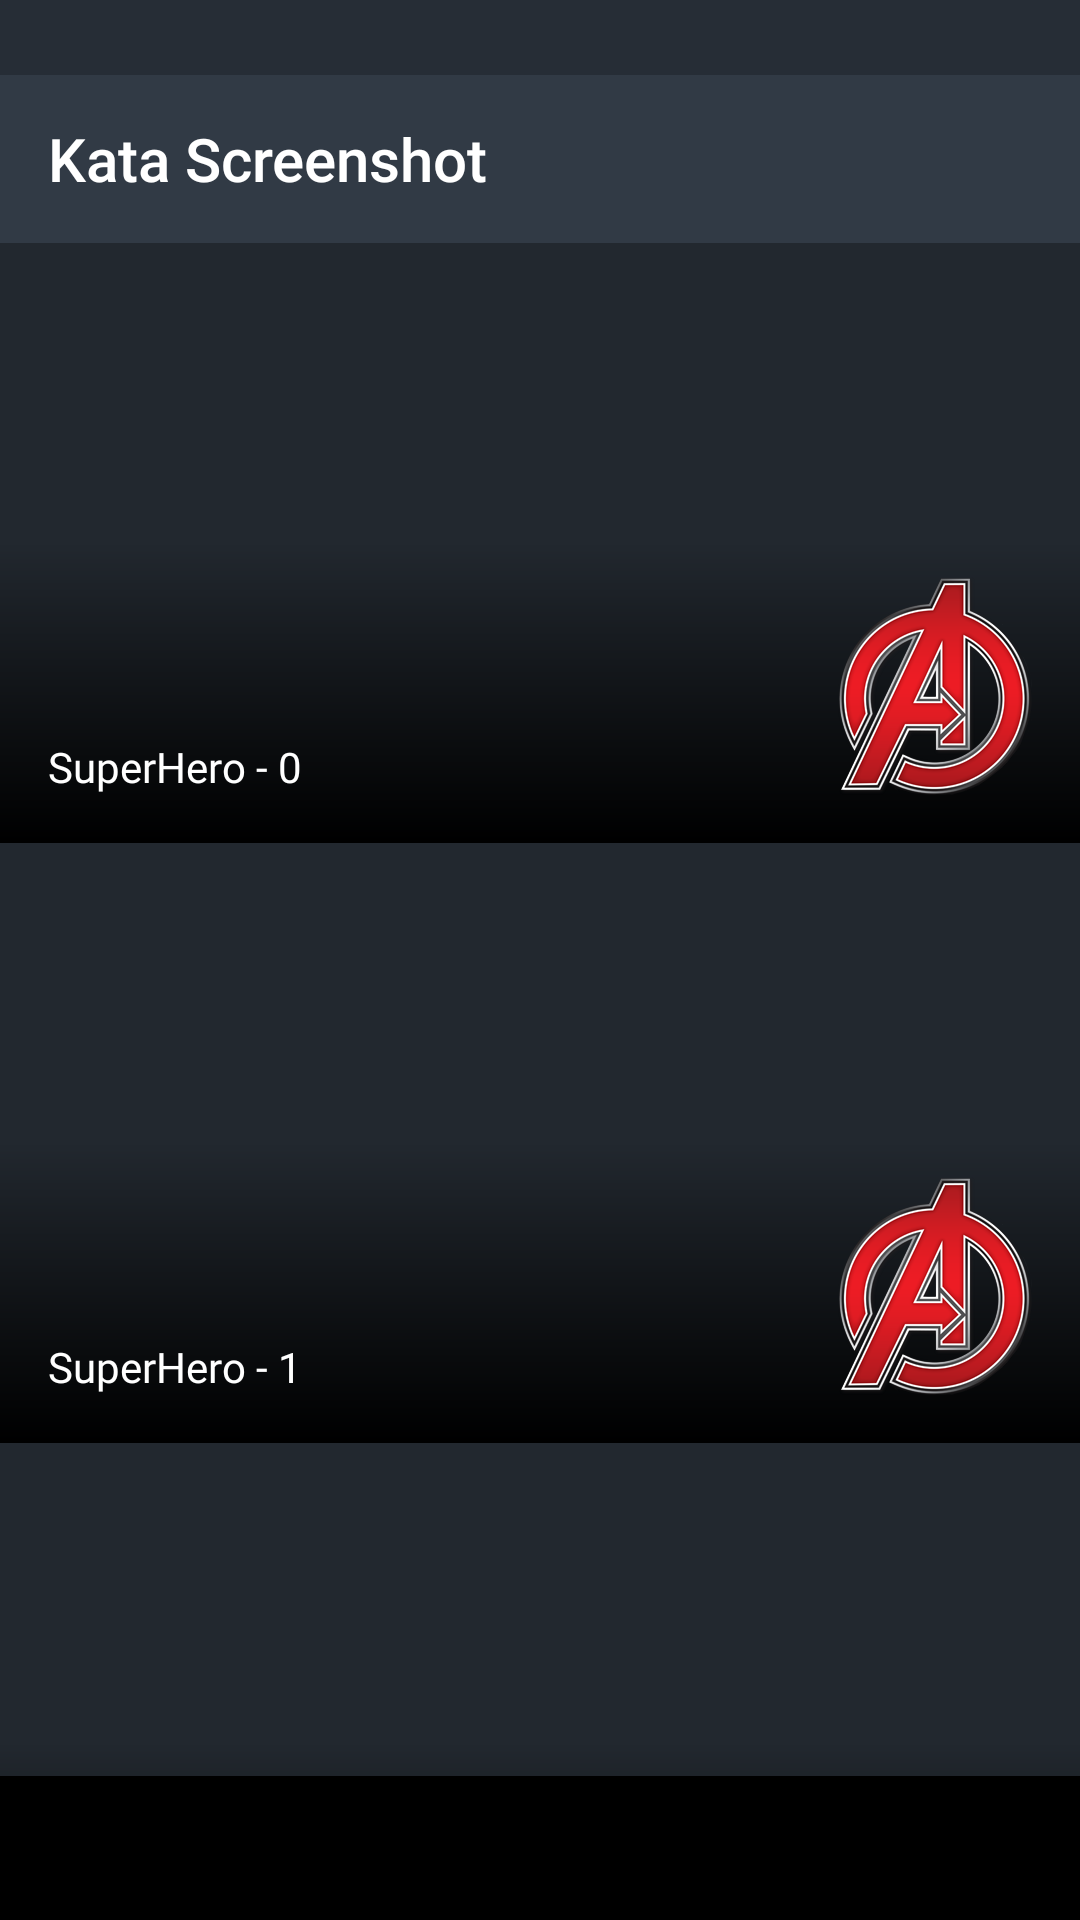
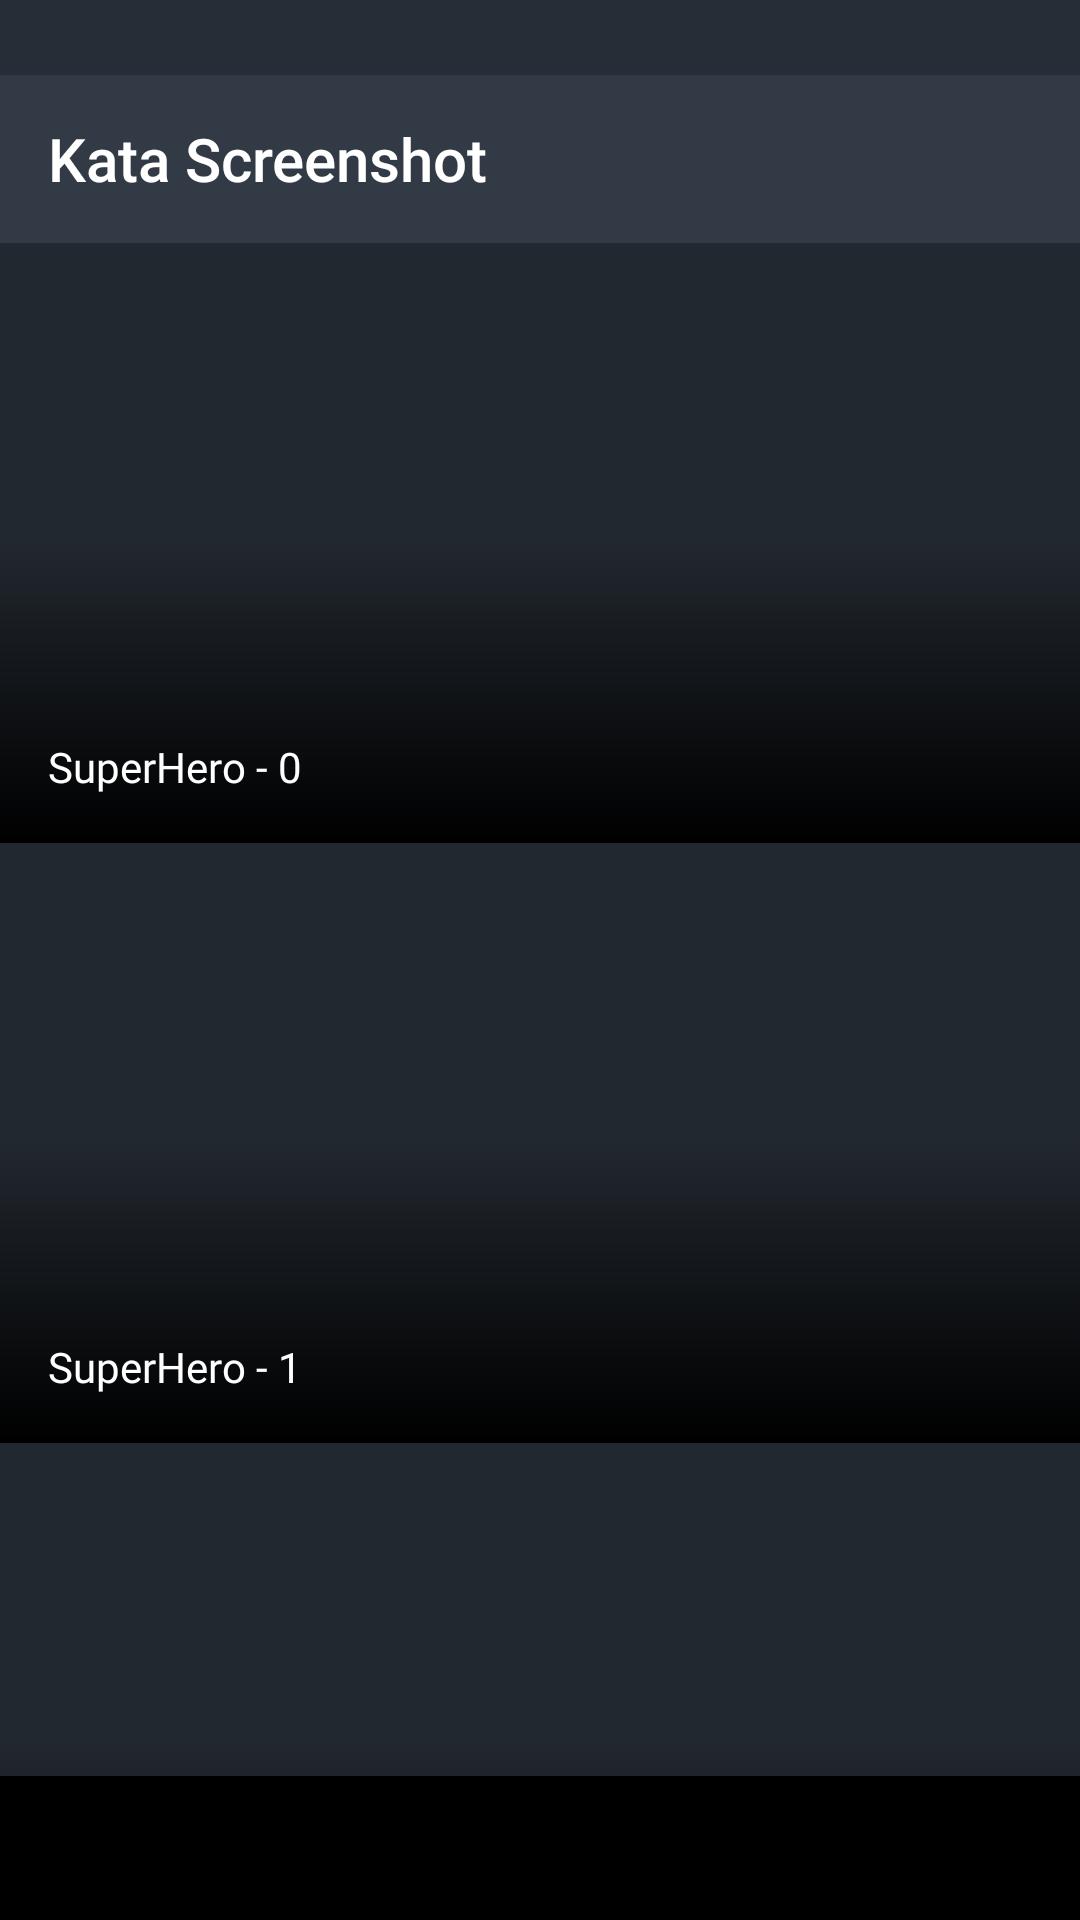
Add tests for avengers badge

Changed region(s): [[0.7639, 0.5938, 0.9778, 0.75], [0.7639, 0.2812, 0.9778, 0.4375]]

diff --git a/app/src/androidTest/java/com/karumi/screenshot/SuperHeroViewHolderTest.java b/app/src/androidTest/java/com/karumi/screenshot/SuperHeroViewHolderTest.java
@@ -38,6 +38,34 @@ public class SuperHeroViewHolderTest extends ScreenshotTest {
     compareScreenshot(holder, R.dimen.super_hero_row_height);
   }
 
+  @Test public void showsSuperHeroWithLongName() {
+    SuperHero superHero = givenASuperHeroWithALongName();
+    SuperHeroViewHolder holder = givenASuperHeroViewHolder();
+
+    holder.render(superHero);
+
+    compareScreenshot(holder, R.dimen.super_hero_row_height);
+  }
+
+  @Test public void showsSuperHeroWithLongDescription() {
+    SuperHero superHero = givenASuperHeroWithALongDescription();
+    SuperHeroViewHolder holder = givenASuperHeroViewHolder();
+
+    holder.render(superHero);
+
+    compareScreenshot(holder, R.dimen.super_hero_row_height);
+  }
+
+  @Test public void showsAvengerBadge() {
+    SuperHero superHero = givenAnAvenger();
+    SuperHeroViewHolder holder = givenASuperHeroViewHolder();
+
+    holder.render(superHero);
+
+    compareScreenshot(holder, R.dimen.super_hero_row_height);
+  }
+
+
   private SuperHeroViewHolder givenASuperHeroViewHolder() {
     Context context = getInstrumentation().getTargetContext();
     LayoutInflater inflater = LayoutInflater.from(context);

diff --git a/app/src/androidTest/java/com/karumi/screenshot/MainActivityTest.java b/app/src/androidTest/java/com/karumi/screenshot/MainActivityTest.java
@@ -61,7 +61,31 @@ public class MainActivityTest extends ScreenshotTest {
     compareScreenshot(activity);
   }
 
+  @Test public void showsListOfSuperHeroesIfThereIsASuperHeroe() {
+    givenThereAreSomeSuperHeroes(1, false);
+
+    Activity activity = startActivity();
+
+    compareScreenshot(activity);
+  }
+
+  @Test public void showsListOfSuperHeroesIfThereIsAnAvenger() {
+    givenThereAreSomeSuperHeroes(1, true);
+
+    Activity activity = startActivity();
+
+    compareScreenshot(activity);
+  }
+
   @Test public void showsListOfSuperHeroesIfThereAreSuperHeroes() {
+    givenThereAreSomeSuperHeroes(5, false);
+
+    Activity activity = startActivity();
+
+    compareScreenshot(activity);
+  }
+
+  @Test public void showsListOfSuperHeroesIfThereAreAvengers() {
     givenThereAreSomeSuperHeroes(5, true);
 
     Activity activity = startActivity();
